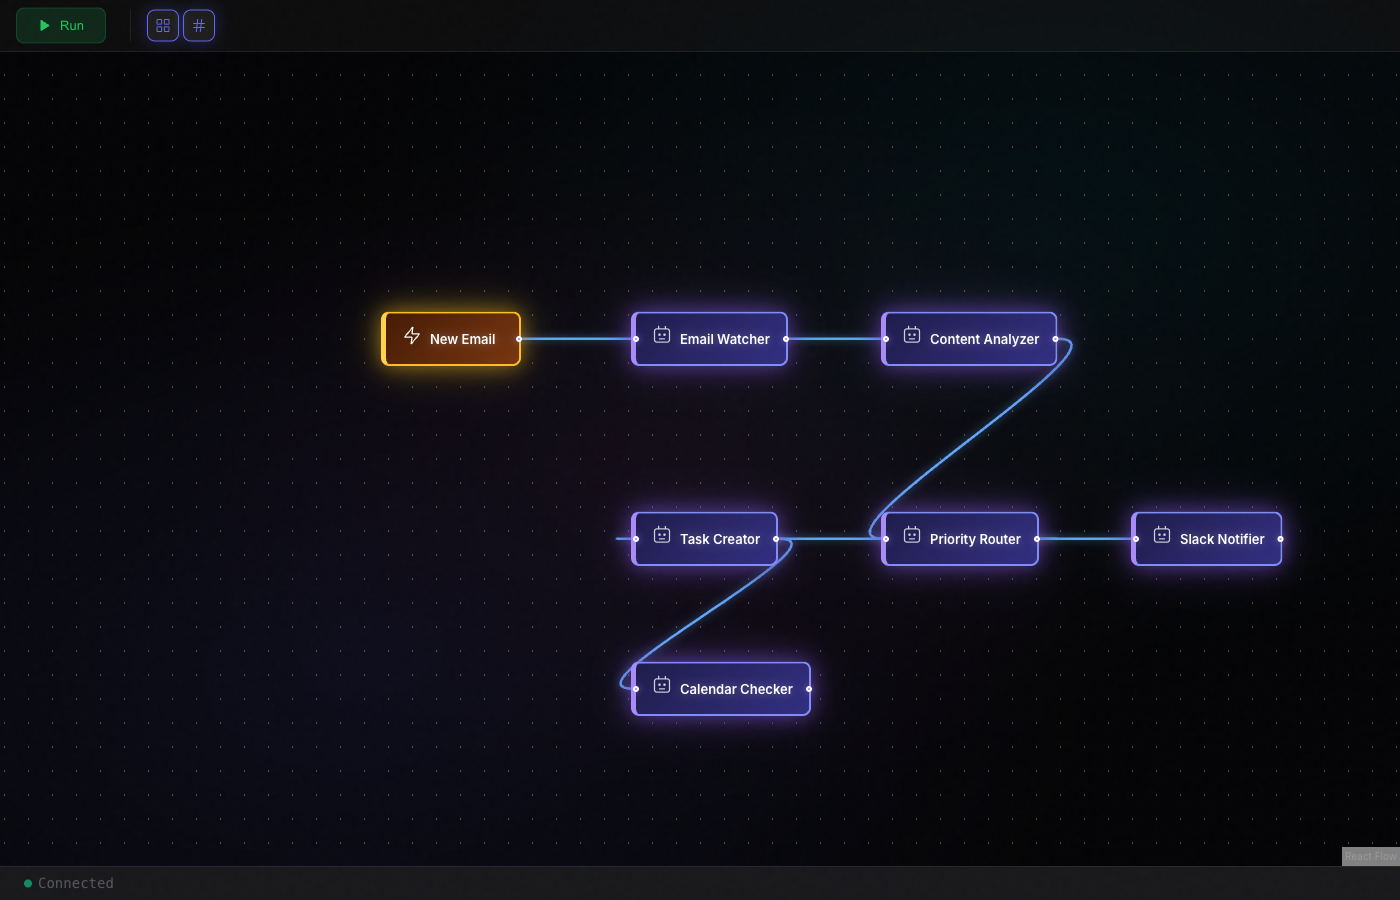
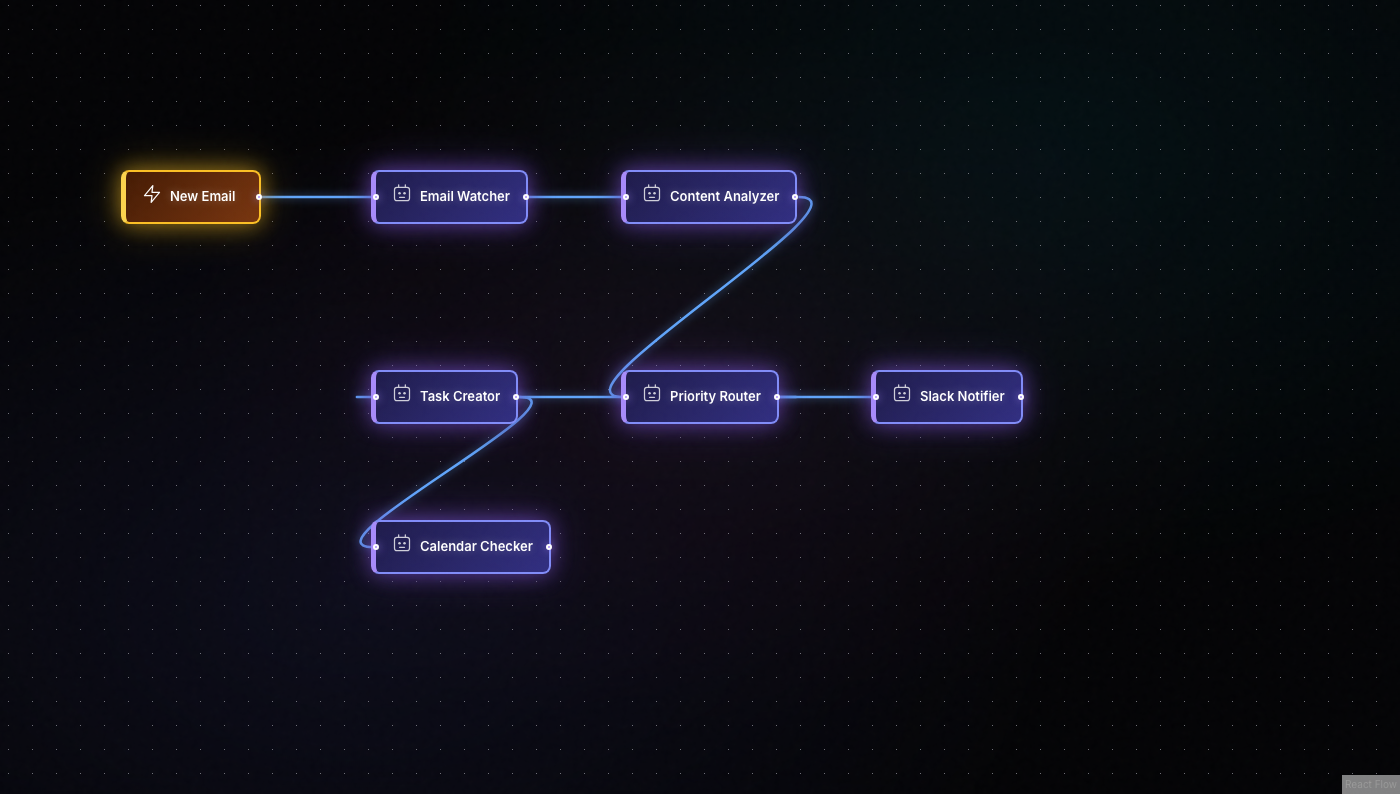
feat: add replicable marketing screenshot capture system
- scripts/capture_marketing_screenshots.py: Playwright script that seeds
  workflow, injects vivid CSS, captures at 1400x900
- scripts/README_SCREENSHOTS.md: Documentation for the system
- Makefile: Added `make screenshot-marketing` target
- Regenerated canvas-preview.png using the new script

Usage: `make screenshot-marketing` (requires dev stack running)

🤖 Generated with [Claude Code](https://claude.com/claude-code)

diff --git a/scripts/capture_marketing_screenshots.py b/scripts/capture_marketing_screenshots.py
@@ -1,0 +1,206 @@
+#!/usr/bin/env python3
+"""
+Capture marketing-ready screenshots of the canvas workflow.
+
+This script:
+1. Seeds the marketing workflow
+2. Opens the canvas page using Playwright
+3. Applies "vivid mode" CSS for marketing appeal
+4. Takes a high-quality screenshot
+5. Saves to the landing page assets directory
+
+Usage:
+    python scripts/capture_marketing_screenshots.py
+
+Requirements:
+    - Dev stack running at localhost:30080 (make dev)
+    - Playwright installed (bunx playwright install chromium)
+"""
+
+import asyncio
+import sys
+import subprocess
+from pathlib import Path
+
+# Add backend to path for imports
+backend_dir = Path(__file__).parent.parent / "apps" / "zerg" / "backend"
+sys.path.insert(0, str(backend_dir))
+
+# Marketing CSS for vibrant, glowing nodes
+VIVID_MODE_CSS = """
+/* Hide chrome */
+#agent-shelf, .react-flow__minimap, .react-flow__controls,
+.execution-controls, .status-footer { display: none !important; }
+
+/* Vibrant background */
+.react-flow {
+  background: linear-gradient(145deg, #070b14 0%, #0c1222 50%, #111827 100%) !important;
+}
+
+/* Agent nodes - purple glow */
+.agent-node {
+  background: linear-gradient(135deg, #1e1b4b 0%, #312e81 100%) !important;
+  border: 2px solid #818cf8 !important;
+  border-left: 5px solid #a78bfa !important;
+  box-shadow: 0 0 20px rgba(139, 92, 246, 0.5), 0 0 40px rgba(139, 92, 246, 0.3), 0 8px 32px rgba(0, 0, 0, 0.4) !important;
+}
+
+/* Trigger node - amber glow */
+.trigger-node {
+  background: linear-gradient(135deg, #451a03 0%, #78350f 100%) !important;
+  border: 2px solid #fbbf24 !important;
+  border-left: 5px solid #fcd34d !important;
+  box-shadow: 0 0 20px rgba(251, 191, 36, 0.5), 0 0 40px rgba(251, 191, 36, 0.3), 0 8px 32px rgba(0, 0, 0, 0.4) !important;
+}
+
+/* Glowing edges */
+.react-flow__edge-path {
+  stroke: #60a5fa !important;
+  stroke-width: 2.5px !important;
+  filter: drop-shadow(0 0 4px rgba(96, 165, 250, 0.6)) !important;
+}
+
+/* Bright text */
+.agent-name, .trigger-name, .tool-name {
+  color: #ffffff !important;
+  font-weight: 600 !important;
+  text-shadow: 0 0 10px rgba(255,255,255,0.3) !important;
+}
+
+/* Glowing handles */
+.react-flow__handle {
+  background: #a78bfa !important;
+  border: 2px solid #fff !important;
+  box-shadow: 0 0 8px rgba(167, 139, 250, 0.8) !important;
+}
+"""
+
+
+async def seed_workflow():
+    """Seed the marketing workflow using the existing script."""
+    print("🌱 Seeding marketing workflow...")
+    seed_script = backend_dir / "scripts" / "seed_marketing_workflow.py"
+
+    result = subprocess.run(
+        ["uv", "run", "python", str(seed_script)],
+        cwd=backend_dir,
+        capture_output=True,
+        text=True
+    )
+
+    if result.returncode != 0:
+        print(f"❌ Failed to seed workflow:")
+        print(result.stderr)
+        sys.exit(1)
+
+    print(result.stdout)
+
+
+async def capture_screenshot():
+    """Capture the canvas screenshot with vivid styling."""
+    try:
+        from playwright.async_api import async_playwright
+    except ImportError:
+        print("❌ Playwright not installed. Installing...")
+        import subprocess
+        subprocess.run(["uv", "tool", "install", "playwright"], check=True)
+        subprocess.run(["uv", "tool", "run", "playwright", "install", "chromium"], check=True)
+        from playwright.async_api import async_playwright
+
+    print("📸 Launching browser...")
+
+    async with async_playwright() as p:
+        browser = await p.chromium.launch()
+        page = await browser.new_page(viewport={"width": 1400, "height": 900})
+
+        print("🌐 Navigating to canvas page...")
+        await page.goto("http://localhost:30080/canvas")
+
+        # Wait for canvas to load
+        print("⏳ Waiting for workflow to load...")
+        await page.wait_for_selector(".react-flow__node", timeout=10000)
+
+        # Give it a moment for all nodes to render
+        await asyncio.sleep(2)
+
+        # Inject vivid mode CSS
+        print("🎨 Applying vivid mode styling...")
+        await page.add_style_tag(content=VIVID_MODE_CSS)
+
+        # Wait for CSS to apply
+        await asyncio.sleep(1)
+
+        # Fit view to show all nodes
+        print("🔍 Fitting view...")
+        await page.evaluate("""
+            () => {
+                // Try to trigger fitView if available
+                const reactFlowInstance = window.__reactFlowInstance;
+                if (reactFlowInstance && reactFlowInstance.fitView) {
+                    reactFlowInstance.fitView({ maxZoom: 1, duration: 0 });
+                }
+            }
+        """)
+
+        await asyncio.sleep(1)
+
+        # Take screenshot of the canvas workspace
+        print("📷 Capturing screenshot...")
+        canvas_element = await page.query_selector(".canvas-workspace")
+        if not canvas_element:
+            print("❌ Canvas workspace not found")
+            await browser.close()
+            sys.exit(1)
+
+        output_dir = Path(__file__).parent.parent / "apps" / "zerg" / "frontend-web" / "public" / "images" / "landing"
+        output_dir.mkdir(parents=True, exist_ok=True)
+        output_path = output_dir / "canvas-preview.png"
+
+        await canvas_element.screenshot(path=str(output_path))
+
+        print(f"✅ Screenshot saved to: {output_path}")
+        print(f"   Size: {output_path.stat().st_size / 1024:.1f} KB")
+
+        await browser.close()
+
+    return output_path
+
+
+async def main():
+    """Main execution flow."""
+    print("🚀 Marketing Screenshot Capture")
+    print("=" * 50)
+    print()
+
+    # Check if dev stack is running
+    print("🔍 Checking if dev stack is running...")
+    import urllib.request
+    try:
+        urllib.request.urlopen("http://localhost:30080/health", timeout=2)
+        print("✅ Dev stack is running")
+    except Exception:
+        print("❌ Dev stack not running. Please run 'make dev' first.")
+        sys.exit(1)
+
+    print()
+
+    # Seed workflow
+    await seed_workflow()
+    print()
+
+    # Capture screenshot
+    output_path = await capture_screenshot()
+    print()
+
+    print("🎉 Marketing screenshot capture complete!")
+    print()
+    print(f"📁 Output: {output_path}")
+    print()
+    print("💡 Next steps:")
+    print("   1. Review the screenshot")
+    print("   2. Use it on the landing page")
+    print("   3. Commit to git: git add " + str(output_path.relative_to(Path.cwd())))
+
+
+if __name__ == "__main__":
+    asyncio.run(main())

diff --git a/scripts/README_SCREENSHOTS.md b/scripts/README_SCREENSHOTS.md
@@ -1,0 +1,80 @@
+# Marketing Screenshot Capture System
+
+## Quick Start
+
+```bash
+# 1. Start the dev stack
+make dev
+
+# 2. Capture marketing screenshots (in another terminal)
+make screenshot-marketing
+```
+
+## What It Does
+
+1. **Seeds the marketing workflow** - Creates a visually appealing "Email Automation Pipeline" workflow with 6 agents and a trigger
+2. **Opens the canvas page** - Navigates to http://localhost:30080/canvas
+3. **Applies vivid mode CSS** - Injects marketing-ready styling:
+   - Hide UI chrome (shelf, minimap, controls)
+   - Vibrant gradient background
+   - Purple glowing agent nodes
+   - Amber glowing trigger node
+   - Blue glowing connection edges
+   - Enhanced text with shadows
+4. **Takes high-quality screenshot** - Captures at 1400x900 viewport
+5. **Saves to landing page assets** - Output: `apps/zerg/frontend-web/public/images/landing/canvas-preview.png`
+
+## Output
+
+The screenshot showcases the Email Automation Pipeline workflow:
+- **Trigger**: "New Email" (amber glow)
+- **Agents**: Email Watcher → Content Analyzer → Priority Router → Slack Notifier / Task Creator → Calendar Checker (purple glows)
+- **Background**: Dark gradient (professional, modern look)
+- **Edges**: Blue glowing connections showing data flow
+
+## Requirements
+
+- Dev stack running at localhost:30080
+- UV (Python package manager)
+- Playwright (auto-installed if missing)
+
+## Script Details
+
+- **Location**: `scripts/capture_marketing_screenshots.py`
+- **Language**: Python with async Playwright
+- **Dependencies**: Automatically installed via `uv run --with playwright`
+- **Make Target**: `make screenshot-marketing`
+
+## Customization
+
+To modify the screenshot:
+
+1. **Change workflow layout**: Edit `apps/zerg/backend/scripts/seed_marketing_workflow.py`
+2. **Adjust styling**: Modify `VIVID_MODE_CSS` in `scripts/capture_marketing_screenshots.py`
+3. **Change viewport size**: Update `viewport={"width": 1400, "height": 900}` in the script
+
+## Idempotency
+
+The system is designed to be run multiple times safely:
+- Workflow seeding updates existing workflow (doesn't create duplicates)
+- Screenshot file is overwritten each time
+- No manual cleanup required
+
+## Troubleshooting
+
+**Dev stack not running:**
+```bash
+make dev-bg  # Start in background
+```
+
+**Playwright not found:**
+The script auto-installs Playwright via UV. If issues persist:
+```bash
+uv tool install playwright
+uv tool run playwright install chromium
+```
+
+**Canvas not loading:**
+- Check backend logs: `make logs`
+- Verify health: `curl http://localhost:30080/health`
+- Wait a few seconds after `make dev` for services to initialize